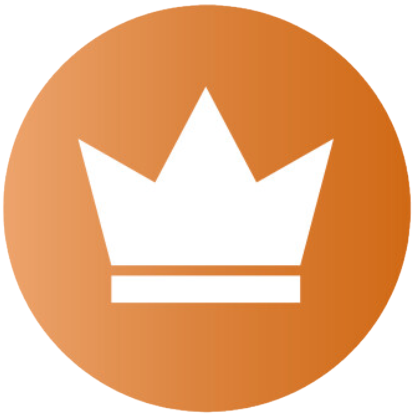
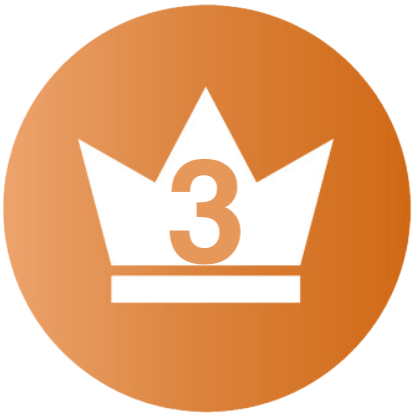
small stuff

Changed region(s): [[0.4078, 0.375, 0.5825, 0.6562]]

diff --git a/Components/Gaming/GamingPageLayout.tsx b/Components/Gaming/GamingPageLayout.tsx
@@ -32,13 +32,11 @@ const GamingPageLayout: React.FC<GamingPageLayoutProps> = ({
             <div className="gaming-page-header">
                 <div className="gaming-page-header-content">
                     <h1 className="gaming-page-title">
-                        GAMING{" "}
-                        <span className="gaming-page-title-accent">
-                            LIBRARY
-                        </span>
+                        PLAY
+                        <span className="gaming-page-title-accent">TIME</span>
                     </h1>
                     <p className="gaming-page-subtitle">
-                        My favorite gaming experiences
+                        List of lifetime gaming experiences.
                     </p>
                 </div>
             </div>

diff --git a/styles/gaming-components.css b/styles/gaming-components.css
@@ -28,6 +28,24 @@
     font-size: 1.125rem;
 }
 
+/* Hide subtitle on mobile devices */
+@media (max-width: 768px) {
+    .gaming-page-subtitle {
+        display: none;
+    }
+    .gaming-page-header-content {
+        margin-top: 0;
+        margin-bottom: 0;
+        padding-top: 0;
+        padding-bottom: 0;
+    }
+    .gaming-page-header {
+        padding-bottom: 0;
+        margin-top: 0;
+        margin-bottom: 0;
+    }
+}
+
 /* Gaming Filter Styles */
 .gaming-filter-container {
     width: 90%;

diff --git a/Components/GameCard.tsx b/Components/GameCard.tsx
@@ -98,7 +98,7 @@ const GameCard = ({ game, gameStatuses, onStatusUpdate }: Props) => {
                         zIndex: 10,
                     }}
                 >
-                    {rank}
+                    {rank > 3 ? rank : ""}
                 </span>
             </div>
         );
